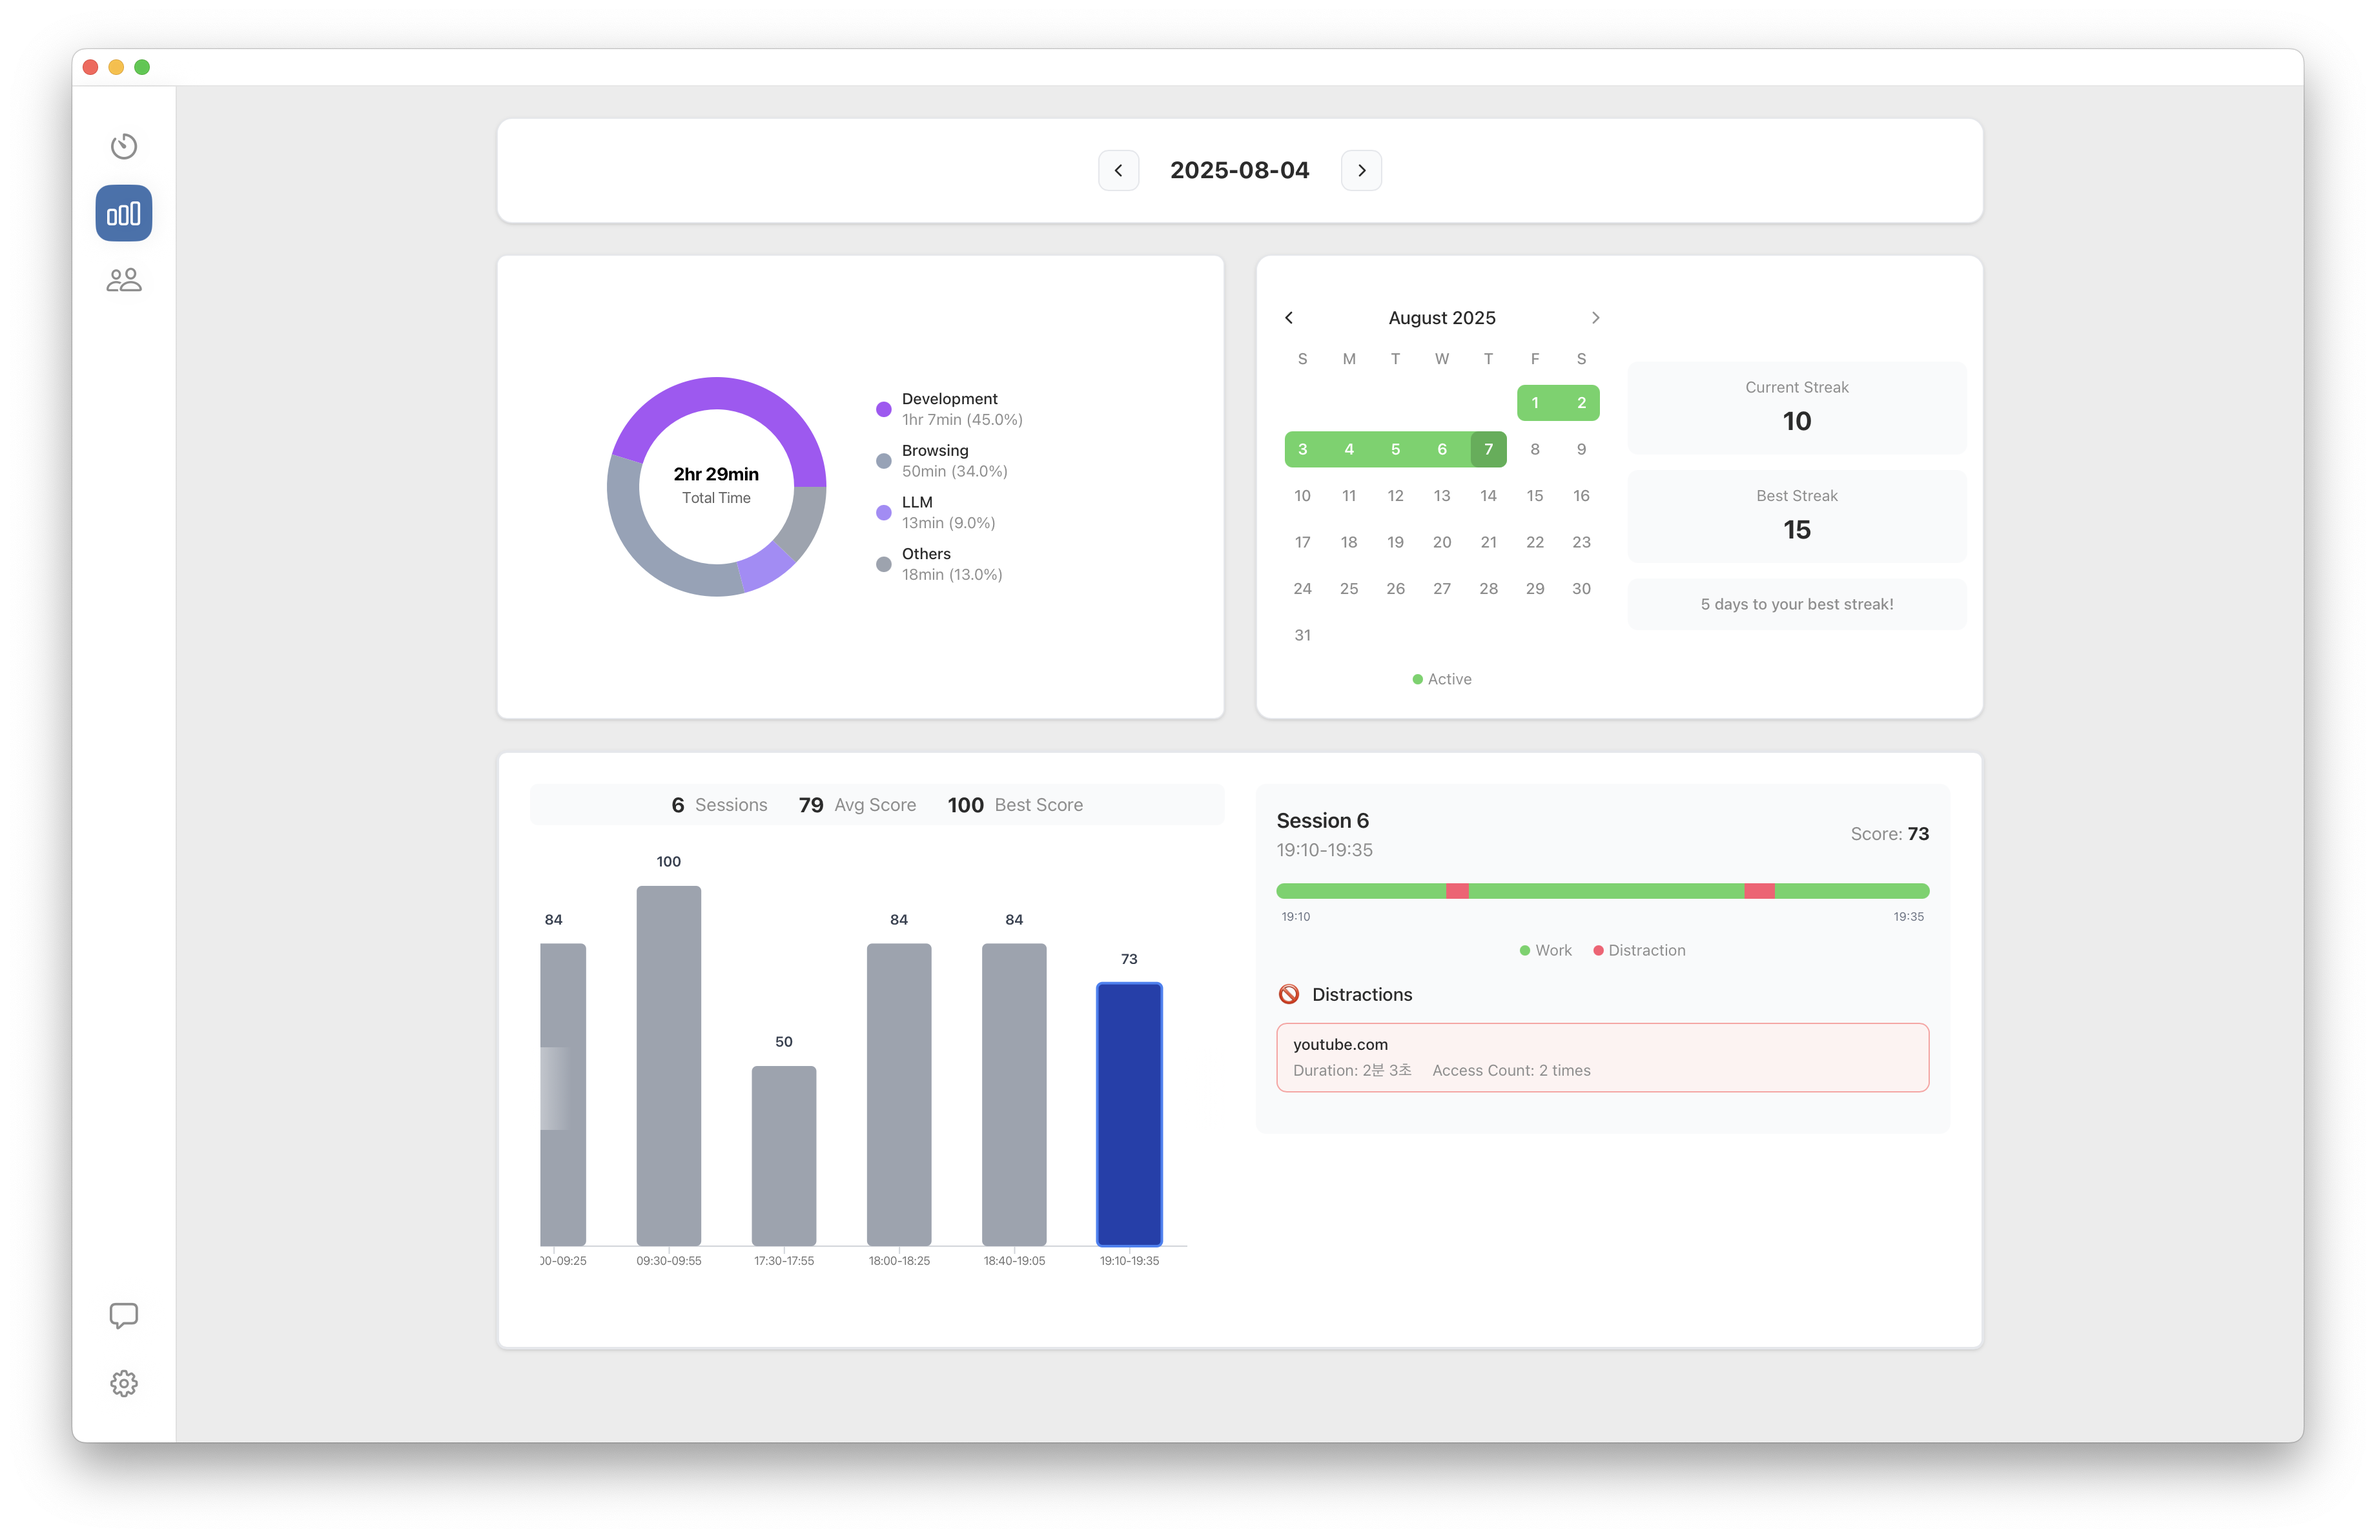
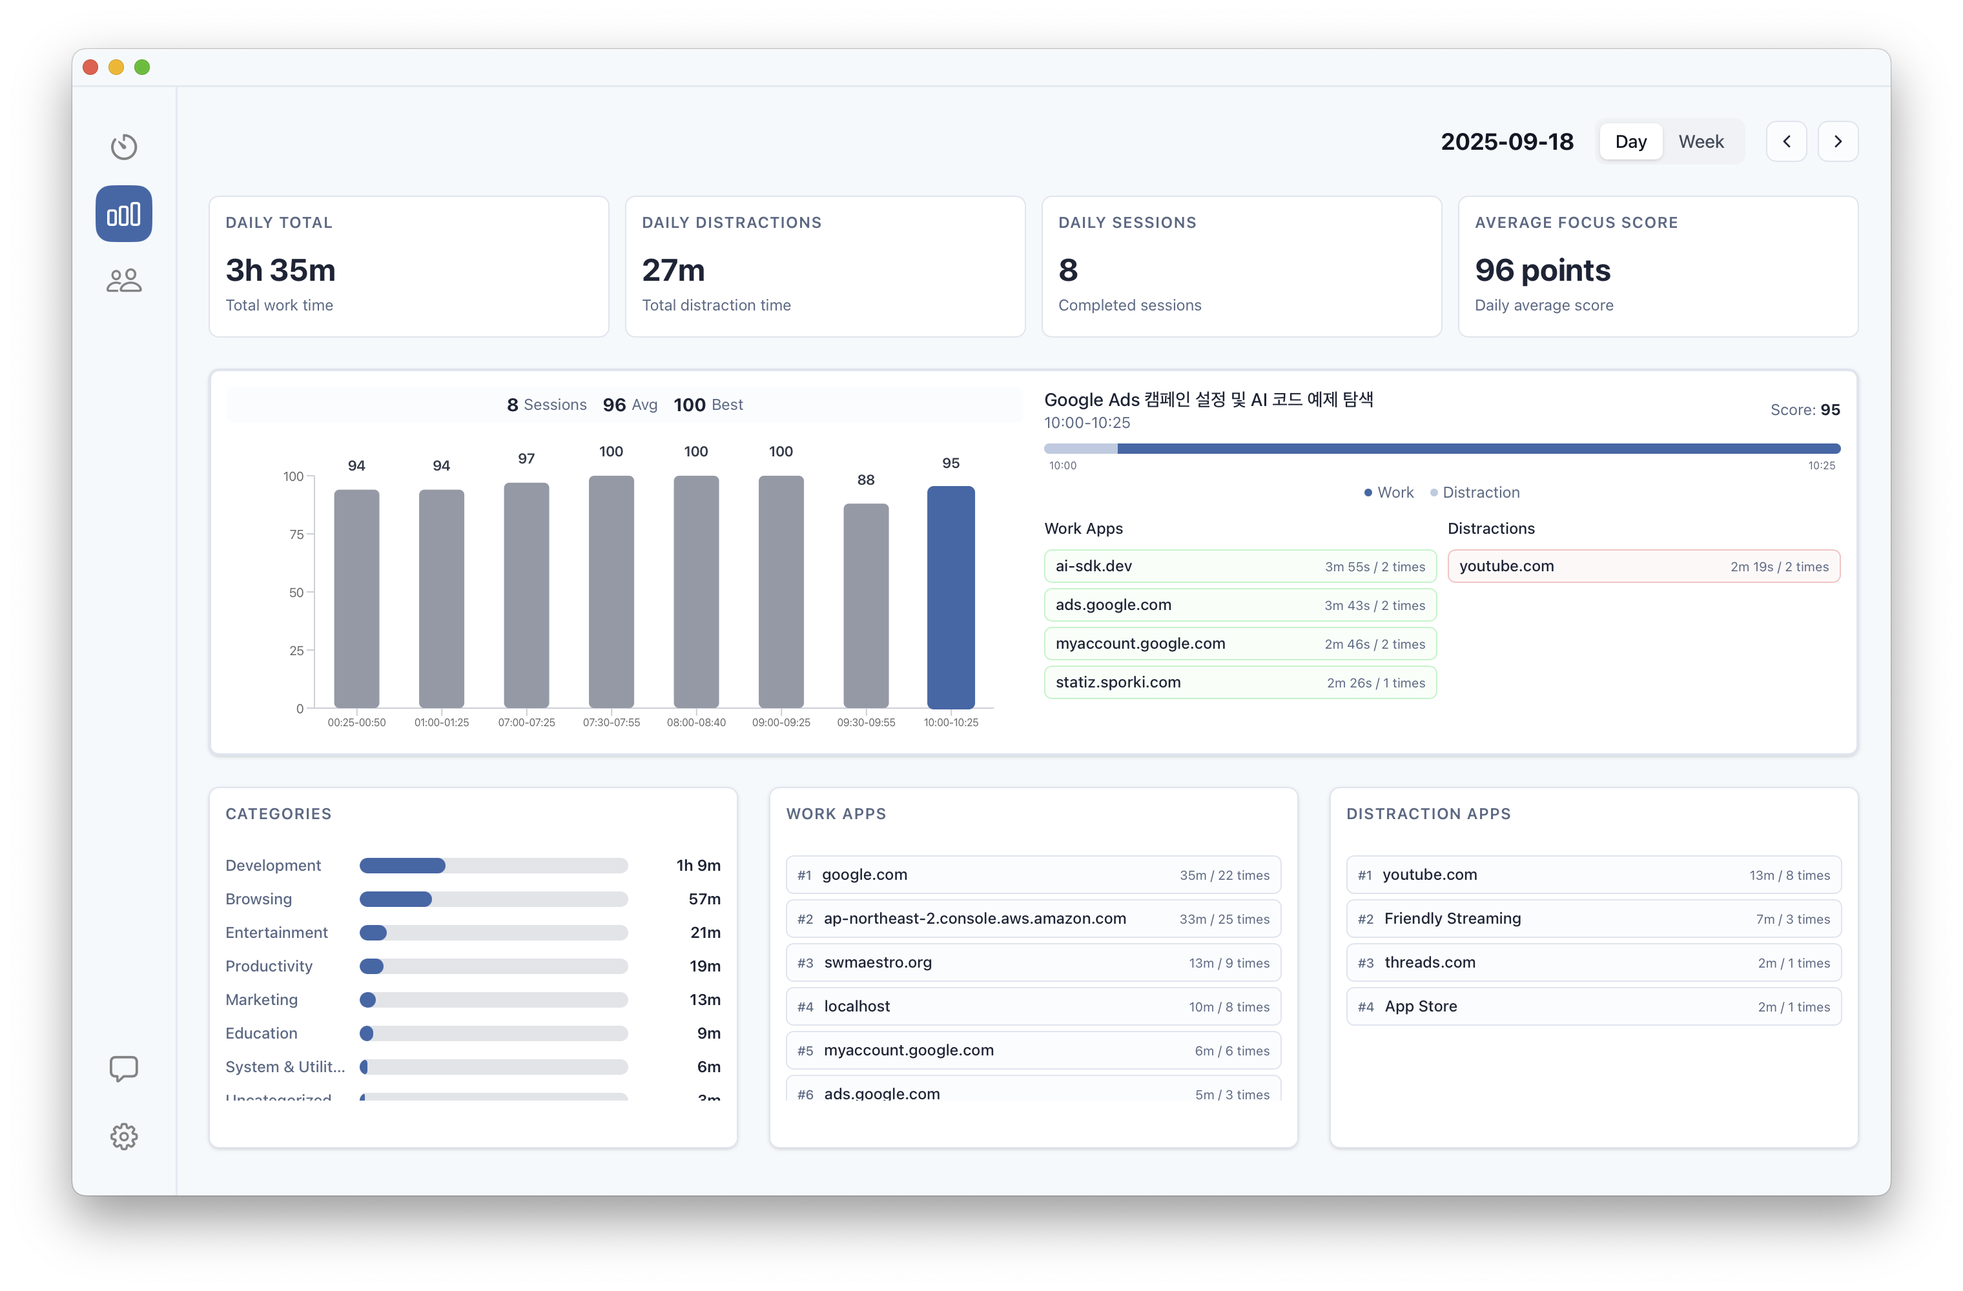
feat: ui 변경사항 반영

diff --git a/src/components/sections/FeaturesSection.tsx b/src/components/sections/FeaturesSection.tsx
@@ -28,36 +28,36 @@ export default function FeaturesSection() {
         </div>
       </div>
 
-      {/* Category Analysis */}
+      {/* Timeline Overview */}
       <div className="grid lg:grid-cols-2 gap-16 items-center mb-32">
         <div className="lg:pl-8">
           <h3 className="text-3xl sm:text-4xl font-bold mb-6 text-gray-800">
-            {t('categoryAnalysis.title')}
+            {t('timelineOverview.title')}
           </h3>
           <p className="text-lg text-gray-600 mb-8 leading-relaxed">
-            {t('categoryAnalysis.description')}
-            <br />{t('categoryAnalysis.descriptionSub')}
+            {t('timelineOverview.description')}
+            <br />{t('timelineOverview.descriptionSub')}
           </p>
           <div className="space-y-4">
             <div className="flex items-center space-x-3">
               <div className="w-3 h-3 bg-blue-500 rounded-full"></div>
-              <span className="text-gray-700">{t('categoryAnalysis.features.autoCategory')}</span>
+              <span className="text-gray-700">{t('timelineOverview.features.timelineSummary')}</span>
             </div>
             <div className="flex items-center space-x-3">
               <div className="w-3 h-3 bg-green-500 rounded-full"></div>
-              <span className="text-gray-700">{t('categoryAnalysis.features.realTimeUpdate')}</span>
+              <span className="text-gray-700">{t('timelineOverview.features.workPattern')}</span>
             </div>
             <div className="flex items-center space-x-3">
               <div className="w-3 h-3 bg-purple-500 rounded-full"></div>
-              <span className="text-gray-700">{t('categoryAnalysis.features.personalizedReport')}</span>
+              <span className="text-gray-700">{t('timelineOverview.features.detailedAnalysis')}</span>
             </div>
           </div>
         </div>
         <div>
           <div className="rounded-2xl overflow-hidden shadow-2xl border border-gray-200 hover:shadow-3xl transition-all duration-700 hover:scale-105">
-            <img 
-              src="/screenshots/CA.png" 
-              alt="카테고리 분석"
+            <img
+              src="/screenshots/Timeline.png"
+              alt="타임라인 개요"
               className="w-full h-auto"
             />
           </div>
@@ -136,24 +136,6 @@ export default function FeaturesSection() {
         </div>
       </div>
 
-      {/* Overview Dashboard */}
-      <div className="mb-32">
-        <div className="text-center mb-12">
-          <h3 className="text-3xl sm:text-4xl font-bold mb-6 text-gray-800">{t('dashboard.title')}</h3>
-          <p className="text-lg text-gray-600 max-w-3xl mx-auto">
-            {t('dashboard.description')}
-          </p>
-        </div>
-        <div className="max-w-6xl mx-auto">
-          <div className="rounded-2xl overflow-hidden shadow-2xl border border-gray-200 hover:shadow-3xl transition-all duration-700 hover:scale-[1.02]">
-            <img 
-              src="/screenshots/Overview.png" 
-              alt="통합 대시보드"
-              className="w-full h-auto"
-            />
-          </div>
-        </div>
-      </div>
 
     </section>
   );
